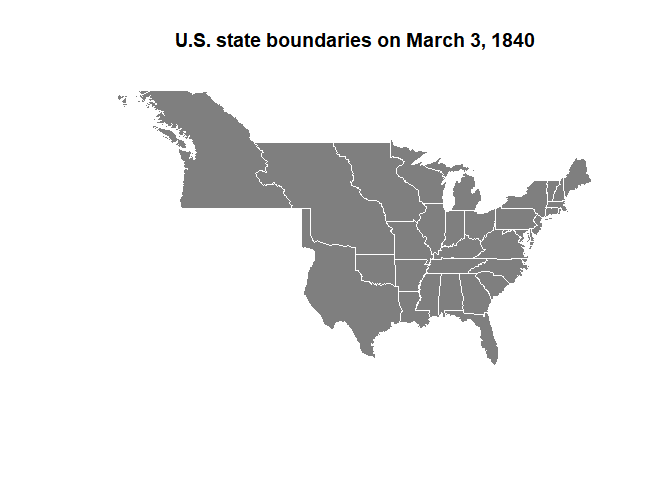
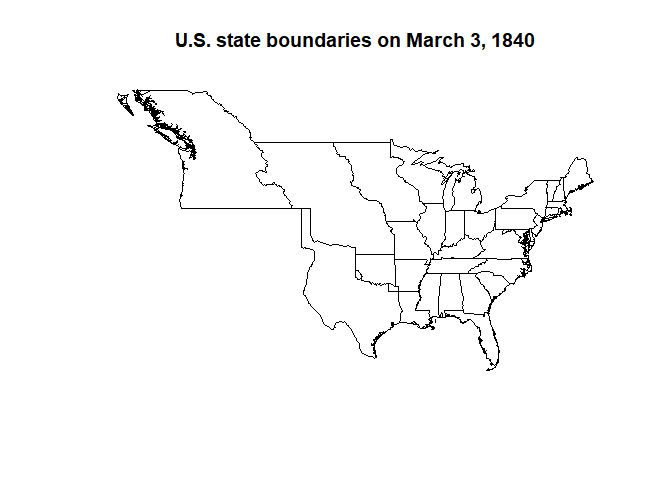
updated readme

Changed region(s): [[0.1562, 0.1875, 0.875, 0.7812]]

diff --git a/README.md b/README.md
@@ -14,9 +14,6 @@ coverage](https://codecov.io/gh/ropensci/USAboundaries/graph/badge.svg)](https:/
 
 ## Overview
 
-Note: Due to U.S. Government Shutdown, state boundaries were unable to be
-updated.
-
 This R package includes contemporary state, county, and Congressional
 district boundaries, and zip code tabulation area centroids. It also
 includes historical boundaries from 1629 to 2000 for states and counties
@@ -74,9 +71,9 @@ citation("USAboundaries")
 
 ## Installation
 
-You can install this package from CRAN.
+You can install this package by:
 
-    install.packages("USAboundaries", repos = c("https://ropensci.r-universe.dev"))
+    pak::pkg_install("ropensci/USAboundaries")
 
 Almost all of the data for this package is provided by the
 [USAboundariesData
@@ -85,7 +82,7 @@ will be automatically installed (with your permission) from the
 [rOpenSci package repository](https://ropensci.r-universe.dev) the first
 time that you need it.
 
-Or you can install the development versions from GitHub:
+Or you can install from GitHub:
 
     install.packages("USAboundaries", repos = c("https://ropensci.r-universe.dev"))
     install.packages("USAboundariesData", repos = c("https://ropensci.r-universe.dev"))
@@ -118,7 +115,7 @@ library(sf) # for plotting and projection methods
 #> Linking to GEOS 3.13.1, GDAL 3.11.0, PROJ 9.6.0; sf_use_s2() is TRUE
 
 states_1840 <- us_states("1840-03-12")
-plot(st_geometry(states_1840), col = "grey50", border = "white")
+plot(st_geometry(states_1840))
 title("U.S. state boundaries on March 3, 1840")
 ```
 
